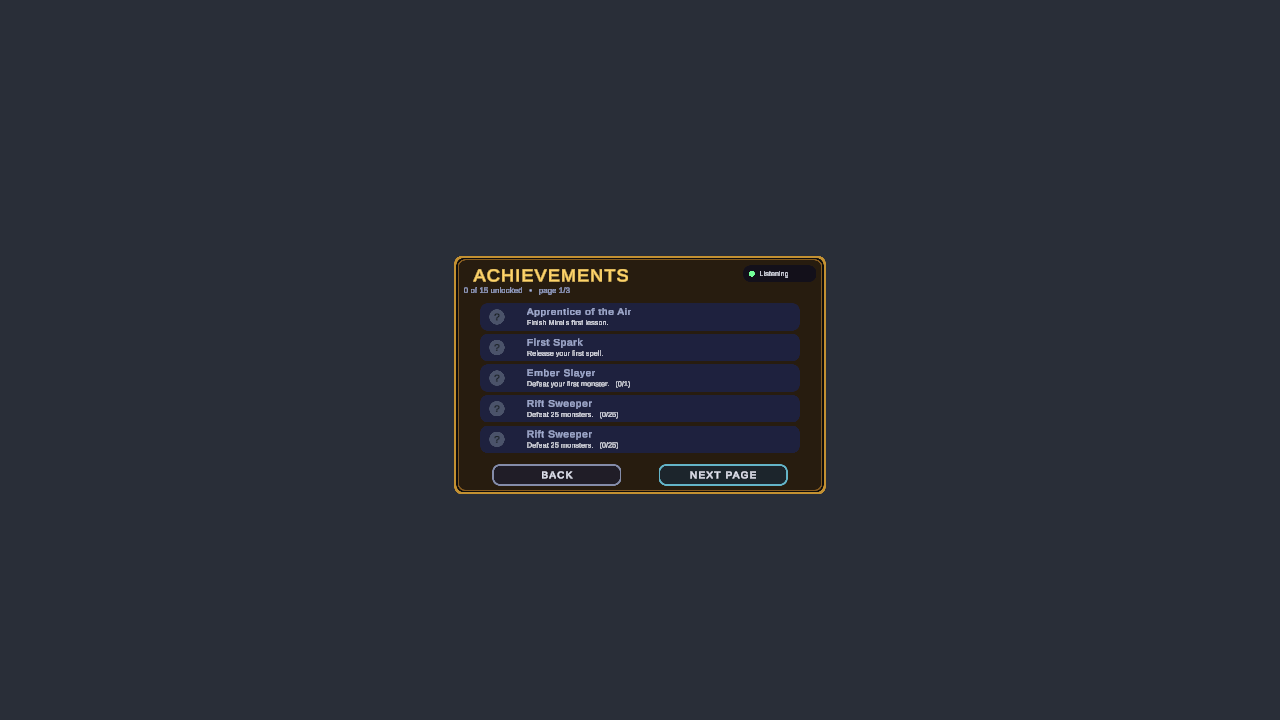
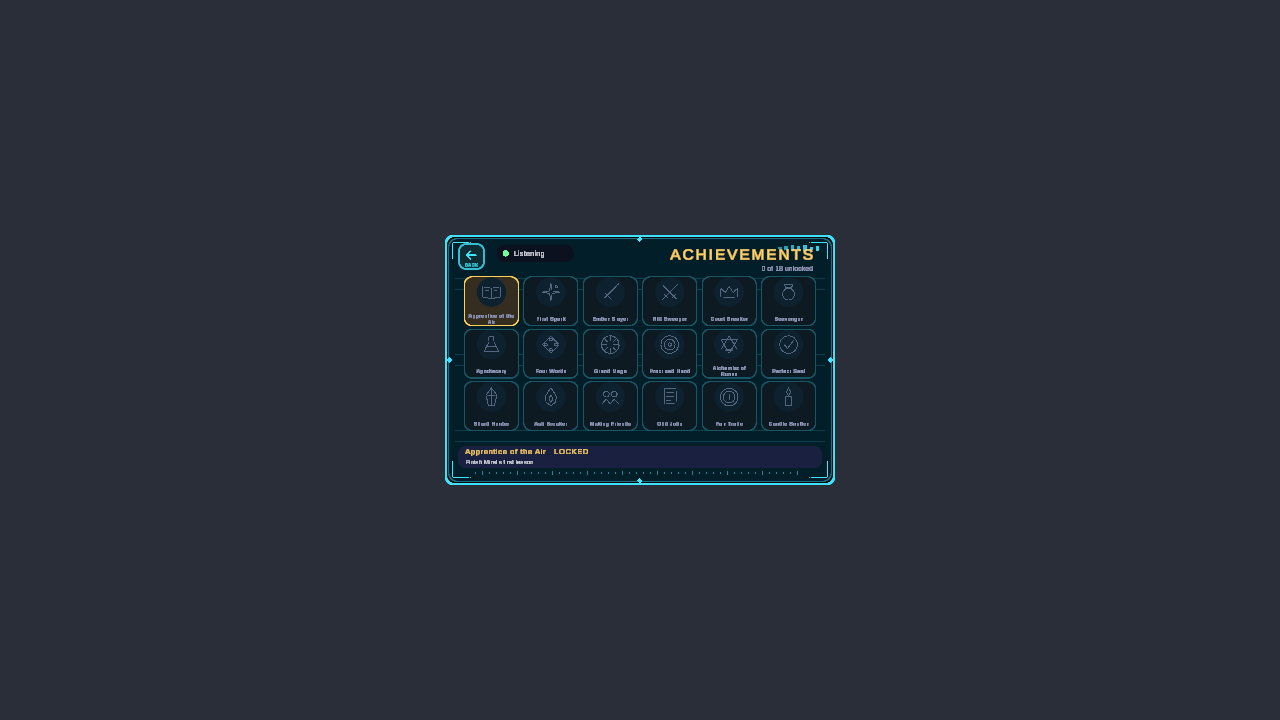
questlines added

Changed region(s): [[0.3438, 0.3056, 0.6562, 0.7028]]

diff --git a/privacy-policy/index.html b/privacy-policy/index.html
@@ -39,10 +39,11 @@ Effective date: 29 October 2026 &nbsp;·&nbsp; Last updated: 29 October 2026</p>
 <div class="summary">
   <strong>In short</strong>
   <ul>
-    <li>The Game has no accounts, no ads, no analytics and no tracking, and it does not sell or share your data.</li>
-    <li>Your hands and your room are processed on your headset. The Game never receives the passthrough camera video.</li>
-    <li>If you use voice commands, your microphone audio is sent to a speech service (Wit.ai, operated by Meta) to turn it into text.</li>
-    <li>Your progress is saved only on your headset. Uninstalling the Game deletes it.</li>
+    <li>The Game uses your headset's <strong>passthrough camera view</strong>, your <strong>microphone</strong>, your <strong>hand tracking</strong> and a <strong>scan of your room</strong>.</li>
+    <li>Passthrough is shown to you on the headset so the game appears in your real room. The Game does not read, save or upload camera images or video.</li>
+    <li>Your voice is sent to a speech service (Wit.ai, operated by Meta) to turn it into text. The Game does not keep recordings.</li>
+    <li>Hand, head and room data stay on your headset. Your progress is saved only on your headset.</li>
+    <li>The Game has no accounts, no ads and no analytics, and we do not sell your data.</li>
   </ul>
 </div>
 
@@ -78,9 +79,9 @@ Effective date: 29 October 2026 &nbsp;·&nbsp; Last updated: 29 October 2026</p>
       <td>Processed live on your headset. Not stored and not sent anywhere.</td>
     </tr>
     <tr>
-      <td><strong>Microphone audio</strong><br>your voice commands</td>
+      <td><strong>Microphone audio</strong><br>your voice, including anything said near the headset while the Game is listening</td>
       <td>You can say spell names and commands such as "learn fire magic" or "open grimoire", and answer characters.</td>
-      <td>Streamed while the Game is listening to the <strong>Wit.ai</strong> speech service (operated by Meta) through the Meta Voice SDK, which returns the words you said as text. The Game keeps only the text it needs to run the command and does not store audio. See <a href="#sharing">Sharing and third parties</a>. If you decline the microphone permission, you can still play with your hands, but voice commands will not work.</td>
+      <td>Streamed while the Game is listening to the <strong>Wit.ai</strong> speech service (operated by Meta) through the Meta Voice SDK, which returns the words you said as text. The microphone is active while the Game is listening, so other speech or sounds nearby can also be picked up and sent. The Game keeps only the text it needs to run the command and does not store audio. See <a href="#sharing">Sharing and third parties</a>. If you decline the microphone permission, you can still play with your hands, but voice commands will not work.</td>
     </tr>
     <tr>
       <td><strong>Room and space data</strong> (Scene)<br>the shape of your room: floor, ceiling, walls, doors, windows, furniture</td>
@@ -90,7 +91,7 @@ Effective date: 29 October 2026 &nbsp;·&nbsp; Last updated: 29 October 2026</p>
     <tr>
       <td><strong>Passthrough</strong><br>the live view of your room</td>
       <td>So you can see your room with the game on top of it.</td>
-      <td>Rendered by the Horizon OS compositor. The Game <strong>does not</strong> receive, record or store the camera images.</td>
+      <td>Passthrough is switched on while you play and is drawn by the headset's system (Horizon OS) behind the game. The Game does not read, save or upload the camera images or any video of your surroundings. Note that your headset's own tools (screenshots, video recording, casting, Meta's Horizon features) are separate from the Game: if you use them, they can capture what you see, including your room and the Game on top of it, under Meta's terms and your settings.</td>
     </tr>
     <tr>
       <td><strong>Head position and movement</strong></td>
@@ -147,8 +148,16 @@ Effective date: 29 October 2026 &nbsp;·&nbsp; Last updated: 29 October 2026</p>
 <h2 id="children">7. Children</h2>
 <p>The Game is intended for people aged 13 and over, in line with the minimum age Meta requires for Meta Quest accounts, and is not directed at children under 13. We do not knowingly collect personal information from anyone, children included. If you believe a child has provided personal information to us, please contact us and we will delete it.</p>
 
-<h2 id="security">8. Security</h2>
-<p>Hand, head and room information stays on your device, and audio sent for speech recognition travels over an encrypted connection. Your progress file is stored in the Game's private storage area on the headset. No method of storage or transmission is completely secure, but because the Game keeps no personal information on any server of ours, there is no account or database of ours that could be breached.</p>
+<h2 id="security">8. Data security</h2>
+<p>We protect the information the Game handles with measures that fit what it does:</p>
+<ul>
+  <li><strong>Keeping data on your device.</strong> Hand, head and room information is used live on your headset and is not sent to us or anyone else.</li>
+  <li><strong>Encryption in transit.</strong> Audio and text sent for voice features travel over an encrypted (HTTPS/TLS) connection.</li>
+  <li><strong>Collecting as little as possible.</strong> The Game has no accounts and holds no names, emails or other identifying details, and it does not store voice recordings or camera images.</li>
+  <li><strong>Protected storage.</strong> Your progress file lives in the Game's private storage on the headset, which other apps cannot normally read, and it contains no personal details.</li>
+  <li><strong>Access to services.</strong> The credentials the Game uses to reach the speech service are kept out of public code and can be replaced if needed.</li>
+</ul>
+<p>No system is completely secure, and we cannot guarantee absolute security. Because we hold no personal information on servers of our own, there is no account database of ours that could be breached. If we ever learn of a breach that affects you, we will tell you and the authorities as the law requires.</p>
 
 <h2 id="rights">9. Your rights</h2>
 <p>Depending on where you live (for example in the European Economic Area, the United Kingdom or California), you may have the right to access, correct, delete or restrict the use of personal information held about you, to object to its use, and to complain to your data protection authority. Because we do not collect personal information that identifies you, we usually have nothing to look up, but you are welcome to <a href="#contact">contact us</a> with any request or question and we will respond within 30 days.</p>

diff --git a/README.md b/README.md
@@ -1,14 +1,14 @@
 # Rune Mage: The Emberbound Grimoire
 
-A spellcasting game for **Meta Quest 3 / 3S** in **passthrough mixed reality**. No weapons: you draw a seal ring and a rune in the air with your finger, then cast it by speaking its word or pushing your palm. Enemies spawn in your real room (MRUK) and keep their distance.
+A spellcasting game for **Meta Quest 3 / 3S** in **passthrough mixed reality**. No weapons and no controllers: you draw a magic circle in the air with your finger, then cast it by speaking its word or pushing your palm. Your real room becomes the battlefield: cracks spread over your walls, the walls break open, and creatures force their way in and advance toward you, but they never come closer than a safe distance.
 
 Unity 6 (6000.2.7f2), URP, Meta XR All-in-One SDK, OpenXR.
 
 ## Screenshots
 
-| Main menu | After Play |
+| Main menu | Quest board |
 |---|---|
-| ![Main menu](docs/images/main_menu.png) | ![Adventure menu](docs/images/main_menu_after_play.png) |
+| ![Main menu](docs/images/main_menu.png) | ![Quest board](docs/images/quest_board.png) |
 
 | Magic list | Achievements |
 |---|---|
@@ -20,30 +20,79 @@ Casting:
 |---|---|---|
 | ![Seal ready](docs/images/magic_seal_ready.png) | ![Fireball](docs/images/magic_fireball.png) | ![Grimoire](docs/images/magic_grimoire.png) |
 
-The Game scene in the editor (trees, candle stand, HUD, grimoire and inventory panel are saved objects you can edit before Play):
+## Quest board
 
-![Game scene](docs/images/game_scene_view.png)
+After **Play** the menu offers the **Quest Board**, a level select with a preview picture, name, level and status for each quest. Point at a card to pick it, read its description and reward in the strip below, then **Start Quest** (or say "start quest"; saying a quest's name picks it).
+
+| The Emberbound Grimoire | Fern Hollow | The Bone Crypt | Dragon's Roost |
+|---|---|---|---|
+| ![Story](docs/images/quest_story.png) | ![Fern Hollow](docs/images/quest_fern_hollow.png) | ![Bone Crypt](docs/images/quest_bone_crypt.png) | ![Dragon's Roost](docs/images/quest_dragon_roost.png) |
+| The story campaign: learn to draw magic, then the Cinder Court, the Ash Warlock and the Candle Queen. | Raptors, a horned brute and the Tyrant of the Hollow. Ice and lightning. | Skeletons, slimes and the Bone Warden. Stone shatters bones, fire melts slimes. | Bats, then the dragon Cinderwing. Fire cannot hurt a dragon: bring ice and water. |
+
+- Quests unlock in a chain: the story opens Fern Hollow once the tutorial is done, each later quest needs the one before it.
+- Each quest turns your room into its own arena (ferns and trunks, tombs and candles, obsidian spires and lava), placed 1.7 to 3.2 m away so you never have to walk. Props stand on the real scanned floor and keep clear of scanned furniture.
+- A quest is a few waves and a boss. If your ward breaks the wave restarts, it never ends the quest. The reward is saved and the quest is marked complete.
+
+### The invasion
+
+Every wave of every quest opens with the room being invaded:
+
+1. Ominous rumble, then glowing, branching cracks spread across your real walls.
+2. The walls break open into ragged dimensional doorways that reach the floor, with fragments flying out and landing on the floor, swirling energy, sparks and smoke.
+3. Eyes peer through the opening, then the creatures force their way out: raptors leap, brutes and bosses stride out with dust and thuds, bats and the dragon swoop, slimes drop and squash.
+4. They turn to you and advance, stopping at a minimum distance (`CombatSystem.MinEnemyDistance`, 1.8 m by default) and attacking with projectiles and magic.
+5. Some cracks stay closed until a boss calls reinforcements, then break open. The openings close when the wave ends.
+
+Each quest picks an `InvasionProfile` (colours, number and size of the openings, timing, intensity), so one system gives every quest its own invasion. It is built in `InvasionDirector`, `DimensionalPortal` and `WallSiteFinder`.
+
+## Room scanning
+
+The scan scene runs between the quest board and the game, built on Meta's MR Utility Kit and Space Setup:
+
+1. **Load the room** from the headset. If there is none (or you ask to scan again), Meta's **Space Setup** opens to capture it.
+2. **Look around.** Every wall, the ceiling, the floor and each piece of furniture glows orange until you look at it for a moment, then turns cyan with a chime. The panel tells you where to look next ("look up", "look to your left"). You turn on the spot, you do not have to walk.
+3. **Check the scan.** It must have a floor, a ceiling, at least three walls and some size. If something is missing it says what and offers another pass; it never traps you.
+4. **Identify the room.** The detected doors, windows, tables, couches, storage, screens, lamps, plants and wall art each get an outline fitted to their real size and a floating name.
+5. **Start.** Say "start", poke START, or "scan again".
+
+After this the game uses the scan for placement: the floor height comes from the scanned floor (a ray onto the floor anchor, so nothing hovers), spots must be inside the room and clear of scanned furniture, and cracks open only on real walls away from doors and windows. With no scan data everything falls back to a safe arc around the player. A second quest in the same session skips the scan.
+
+## Magic circles
+
+Drawing follows rules, so you can invent spells instead of looking them up:
+
+- The **ring** is the circle: neater is steadier, bigger is stronger.
+- The rune in the **core** is the body of the spell; a rune on the **rim** infuses it. Water in the core with ice on the rim is a freezing torrent, ice in the core with water on the rim is a different spell.
+- Two runes on the same layer **fuse**.
+- **Signs** on the rim modify delivery: a straight stroke is a beam (faster), a small loop is a burst (explodes), a chevron seeks.
+- Mixed circles are released by speaking both element words.
+
+You write on an **invisible drawing plane** about 0.7 m in front of you (it glows faintly when your hand is near, so you can see where to write). Raising your hand elsewhere draws nothing.
+
+Open the **grimoire** with your open left hand; it rides on that hand, book-sized, with an icon menu (Spells, Quests, Items, Trophies, Help). Say "close grimoire" to close it. The Help tab lists the circle rules and every voice command.
 
 ## Scenes
 
-Build order: `MainMenu`, `Game`, `Achievements`, `MagicList` (in `Assets/Scenes`).
+Build order: `MainMenu`, `Quests`, `Scan`, `Game`, `Achievements`, `MagicList` (in `Assets/Scenes`).
 
-- **MainMenu**: the title with Play and Quit. Play opens a second page with Begin/Continue, Magic List, Achievements and Inventory.
-- **Game**: the adventure (tutorial, quests, combat, boss).
-- **Achievements** and **MagicList**: paged lists, reached from the second menu page.
+- **MainMenu**: the title with Play and Quit. Play opens a second page with Quest Board, Magic List, Achievements and Inventory.
+- **Quests**: the quest board.
+- **Scan**: the room scan described above, then it loads the game.
+- **Game**: the quest (story or a board quest), combat and bosses.
+- **Achievements** (a grid of symbols, back icon top left) and **MagicList**: reached from the second menu page.
 
-The menu UI, the HUD, the grimoire, the inventory panel and the environment props are real objects in the scenes (see `MenuCanvas`, `HUD`, `Grimoire`, `InventoryPanel`, `Props`), so they can be seen and edited in the Scene view without pressing Play.
+The menus, the scan panel, the HUD, the grimoire, the inventory panel and the story props are real objects in the scenes (see `MenuCanvas`, `ScanPanel`, `HUD`, `Grimoire`, `InventoryPanel`, `Props`), so they can be seen and edited in the Scene view without pressing Play. Menus are plate-sized (about 37 x 24 cm), 50 cm in front of you at eye height, with a sci-fi layer (cyan frames, corner brackets, scan lines, an eye emblem) over the gold fantasy trim.
 
 ## Playing
 
-- **Hands only, no controllers**: pinch to draw ink, push your palm forward to cast, hold the left palm up for the grimoire, swipe to turn pages.
-- **Voice**: every action also works by voice. Say "what can I say" at any time. Menu buttons also work by holding a fingertip on them, or pinching.
-- **Spells**: fire, water, wind, lightning, earth, ice, barrier, heal, plus hidden combinations.
+- **Hands only, no controllers**: pinch on the drawing plane to write, push your palm forward to cast, open your left hand for the grimoire, point or pinch at buttons.
+- **Voice**: every action also works by voice. Say "what can I say" at any time.
+- **Spells**: fire, water, wind, lightning, earth, ice, barrier, heal, plus any mixed circle you invent.
 - **Inventory**: monsters drop potions and keepsakes. Say "drink health potion" or "use mana potion".
 
 ## Meta SDK and building blocks
 
-The scenes use Meta Building Blocks: Camera Rig, Passthrough, Real Hands, MR Utility Kit, and the Voice SDK's Speech to Text (Dictation) and Speak Text blocks.
+The scenes use Meta Building Blocks: Camera Rig, Passthrough, Real Hands, MR Utility Kit, the Interaction SDK's Poke and Ray interactions, and the Voice SDK's Speech to Text (Dictation) and Speak Text blocks. The Meta app id is stored in `Assets/Resources/OculusPlatformSettings.asset`; set your own package name and complete the Data Use Checkup on the developer dashboard before submitting.
 
 ### Voice needs your own Wit.ai config
 
@@ -61,11 +110,37 @@ Set Meta Quest Link as the active OpenXR runtime, turn on passthrough over Link 
 
 ## Tests
 
-PlayMode tests in `Assets/RuneMage/Tests/PlayMode`. They run headless, with scripted hands and voice.
+PlayMode tests in `Assets/RuneMage/Tests/PlayMode`. They run headless, with scripted hands and voice, and cover the drawing plane, magic-circle rules, the quest board, a full quest playthrough, the invasion sequence, placement and the menus. A few tests (`RuneMagePreviewTests`) are marked explicit: they render the quest preview pictures and menu screenshots and only run when selected.
 
 ## Layout
 
-- `Assets/RuneMage/Scripts`: game code (recognition, hands, magic, combat, voice, story, UI)
-- `Assets/RuneMage/Art`: flame models and textures
+- `Assets/RuneMage/Scripts`: game code (recognition, hands, magic, combat and invasion, voice, story and missions, spatial and scan, UI)
+- `Assets/RuneMage/Art`, `Assets/RuneMage/Resources/Creatures`: models and textures
+- `Assets/RuneMage/Resources/QuestPreviews`: the quest board pictures
 - `Assets/RuneMage/Editor`: editor tools used to generate and update the scenes (batch mode)
-- `Assets/Scenes`: the four game scenes
+- `Assets/Scenes`: the game scenes
+- `privacy-policy`: the privacy policy page for GitHub Pages
+
+## Credits
+
+### Major assets
+
+| What | Where it is used | Source and licence |
+|---|---|---|
+| **Meta XR All-in-One SDK** (Core, MR Utility Kit, Interaction SDK, Voice SDK, Platform) | passthrough, hands, room scanning, poke and ray buttons, speech | [Meta](https://developers.meta.com/horizon/), under Meta's SDK licence |
+| **Animated LowPoly Dinosaurs** by Quaternius | Rift Raptor, Horned Brute, Tyrant of the Hollow | [quaternius.itch.io/animated-lowpoly-dinosaurs](https://quaternius.itch.io/animated-lowpoly-dinosaurs), [CC0](https://creativecommons.org/publicdomain/zero/1.0/) |
+| **Animated Monsters** by Quaternius | Cinderwing the dragon, the skeletons, the Bone Warden, slimes, bats | [opengameart.org/content/lowpoly-animated-monsters](https://opengameart.org/content/lowpoly-animated-monsters), [CC0](https://creativecommons.org/publicdomain/zero/1.0/) |
+| **Wit.ai** | speech to text and text to speech through the Voice SDK | [wit.ai](https://wit.ai), you supply your own app and token |
+| **glTFast** (Unity package) | importing the Hana character model | [Unity glTFast](https://docs.unity3d.com/Packages/com.unity.cloud.gltfast@latest) |
+| **Hana** (`Unagirl.vrm`, a VRM avatar) | the healer character | taken from the LearnTwin project's `assets` folder, whose README says to check each VRM model's licence before redistributing. **Confirm this licence before shipping.** The model file is not in this repo. |
+| **Bob, Klevin, Neko** and the character animations (idle, pointing, sword casting, ...) | the other three characters | Mixamo-rigged models and Mixamo-style clips taken from the Crimson Valor reference project. **Confirm the licences before shipping.** |
+| **Flame enemies** (Cinder Walker, Ash Warlock) and the **Candle Queen** | story enemies | models and animations that came from other Unity projects (Inferno Overdrive, Humpty Bumpy). The Candle Queen is a Chandelure-style lantern model, which is Nintendo/Game Freak's character design. **Confirm you may publish these before shipping.** |
+
+Sound effects are synthesised in code. The spell recognition is a $P point-cloud recogniser (Vatavu, Anthony and Wobbrock, 2012), written for this project.
+
+### Inspiration (no code or assets copied)
+
+- Meta's **First Encounters** (the ceiling breaking open) and Meta's open-source samples **Unity-CrypticCabinet** (room setup and scene loading flow) and **Unity-TheWorldBeyond** (placing things on real surfaces).
+- The **Witch Hat Atelier Spell Simulator** by [ytnrvdf](https://ytnrvdf.github.io/wha-spell-simulator) (a fan project), and *Witch Hat Atelier* by Kamome Shirahama, for the idea of a ring, element runes and modifying signs, which became the magic-circle rules.
+
+Small props (trees, the stand and candle, the plate) and the simple shapes of the quest arenas are not listed.
